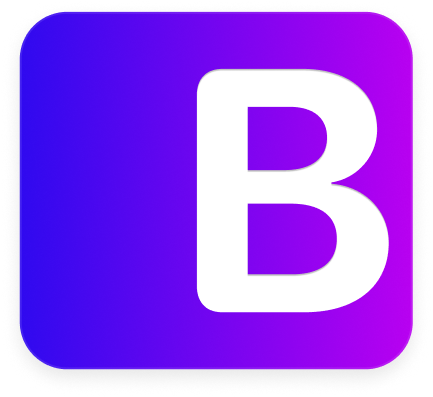
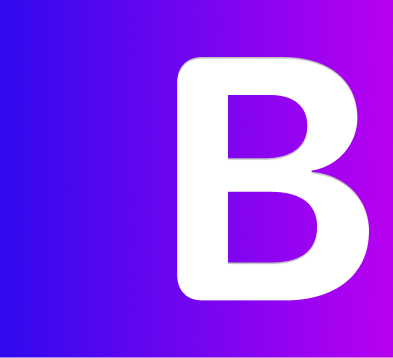
Update product images, refine text in various components for clarity, and enhance styling in Hero and ProductLogo components.

diff --git a/src/components/shared/ProductLogo/ProductLogo.module.scss b/src/components/shared/ProductLogo/ProductLogo.module.scss
@@ -1,91 +1,16 @@
 @import "@/theme/styles.scss";
 
 .productLogo {
-  align-items: center;
   border: 0.658px solid $white-10;
   border-radius: $radius-medium;
   box-shadow: 0px 2.633px 6.583px 0px rgba(0, 0, 0, 0.1);
-  display: flex;
   flex-shrink: 0;
   height: 119px;
-  justify-content: center;
   overflow: hidden;
   position: relative;
   width: 131px;
 }
 
-// Re:verb specific styles
-.reverb {
-  &::before {
-    background: rgba(0, 0, 0, 0.33);
-    border-radius: $radius-medium;
-    content: "";
-    inset: 0;
-    position: absolute;
-  }
-
-  &::after {
-    background-image: 
-      linear-gradient(87.53deg, rgb(106, 78, 77) 17.27%, rgb(66, 81, 82) 49.07%, rgb(67, 101, 85) 91.46%),
-      linear-gradient(-19.17deg, rgb(77, 80, 63) 12.04%, rgb(91, 84, 105) 42.14%, rgb(90, 111, 88) 81.28%),
-      linear-gradient(107.56deg, rgb(74, 115, 85) 0.83%, rgb(49, 48, 74) 24.95%, rgb(107, 106, 82) 68.2%);
-    border-radius: $radius-medium;
-    content: "";
-    inset: 0;
-    mix-blend-mode: overlay;
-    position: absolute;
-  }
-}
-
-.reverbContent {
-  position: relative;
-  z-index: 1;
-}
-
-.reverbText {
-  color: $white;
-  font-family: $font-family-base;
-  font-size: 18px;
-  font-weight: 700;
-}
-
-// Sous Chef specific styles
-.souschef {
-  background: linear-gradient(180deg, #343434 0%, #1f1f1f 100%);
-}
-
-.souschefContent {
-  align-items: center;
-  display: flex;
-  flex-direction: column;
-  gap: 12px;
-}
-
-.souschefIcon {
-  font-size: 32px;
-}
-
-.souschefText {
-  color: #ff6b6b;
-  font-family: $font-family-base;
-  font-size: 14px;
-  font-weight: 700;
-}
-
-// Bandwagon specific styles
-.bandwagon {
-  background: linear-gradient(90deg, #2f09ef 0%, #b800f0 100%);
-  justify-content: flex-end;
-  padding-right: 8px;
-}
-
-.bandwagonContent {
-  display: flex;
-}
-
-.bandwagonText {
-  color: $white;
-  font-family: $font-family-base;
-  font-size: 64px;
-  font-weight: 700;
+.image {
+  object-fit: cover;
 }

diff --git a/src/components/ProductRoundup/ProductRoundup.tsx b/src/components/ProductRoundup/ProductRoundup.tsx
@@ -11,11 +11,8 @@ export default function ProductRoundup() {
       <Column side="left" cells="single">
         <div className={styles.intro}>
           <h2 className={styles.headline}>
-            We have opinions. So do our products.
+            Our products have opinions.
           </h2>
-          <p className={styles.subheadline}>
-            TKTKTK gotta write some stuff there
-          </p>
         </div>
       </Column>
       <Column side="right" cells="single">
@@ -25,19 +22,21 @@ export default function ProductRoundup() {
               logo={<ProductLogo product="reverb" />}
               description="Smart summaries of podcasts, instantly delivered to your inbox"
               buttonText="Free to use"
-              buttonHref="#"
+              buttonHref="https://reverb.email"
             />
           </ProductPack>
           <ProductPack label="Coming soon">
             <ProductPromo
               logo={<ProductLogo product="souschef" />}
-              description="TKTK"
-              buttonText="Free to use"
+              description="Turn an entire dinner party into a single, easy-to-follow recipe"
+              buttonText="Private beta"
+              buttonHref="https://souschef.cool"
             />
             <ProductPromo
               logo={<ProductLogo product="bandwagon" />}
-              description="TKTK"
-              buttonText="Free to use"
+              description="Level up your group chats with AI."
+              buttonText="Private beta"
+              buttonHref="https://bandwagon.chat"
             />
           </ProductPack>
         </div>

diff --git a/src/components/CallToAction/CallToAction.tsx b/src/components/CallToAction/CallToAction.tsx
@@ -8,10 +8,10 @@ function HireUsCTA() {
     <div className={styles.hireUsCta}>
       <div className={styles.hireUsContent}>
         <h3 className={styles.hireUsHeadline}>
-          We&apos;re frankly desperate to work with you.
+          We’re excited to work with you!
         </h3>
         <p className={styles.hireUsBody}>
-          TKTKTK gotta write some stuff there
+          Need to start starting? We can help you move from blank whiteboard to 1.0 in 12 weeks.
         </p>
       </div>
       <Button variant="reverse" className={styles.hireUsButton}>
@@ -36,10 +36,10 @@ function PodcastPromo() {
         </video>
       </div>
       <p className={styles.podcastText}>
-        We co-host a podcast called Product Fridays. It&apos;s a cool and you should watch and/or listen.
+        We co-host <strong>Product Fridays,</strong> a podcast about emerging tech, creativity, and the art of building.
       </p>
       <Button variant="big" className={styles.subscribeButton}>
-        Subscribe
+        Subscribe now
       </Button>
     </div>
   );
@@ -49,7 +49,7 @@ function NewsletterSignUp() {
   return (
     <div className={styles.newsletterSignUp}>
       <p className={styles.newsletterText}>
-        We also send updates on product launches, new projects and collaborations, and occasional sneak peaks.
+        We also send updates on product launches, new projects and collaborations, and occasional sneak peeks.
       </p>
       <div className={styles.signUpForm}>
         <div className={styles.signUpInput}>

diff --git a/src/components/shared/ProductLogo/ProductLogo.tsx b/src/components/shared/ProductLogo/ProductLogo.tsx
@@ -1,32 +1,25 @@
 import styles from "./ProductLogo.module.scss";
-import clsx from "clsx";
+import Image from "next/image";
 
 export type ProductLogoProps = {
   product: "reverb" | "souschef" | "bandwagon";
 };
 
+const productImages: Record<ProductLogoProps["product"], string> = {
+  reverb: "/products/reverb.png",
+  souschef: "/products/sous-chef.png",
+  bandwagon: "/products/bandwagon.png",
+};
+
 export default function ProductLogo({ product }: ProductLogoProps) {
   return (
-    <div className={clsx(
-      styles.productLogo,
-      styles[product]
-    )}>
-      {product === "reverb" && (
-        <div className={styles.reverbContent}>
-          <span className={styles.reverbText}>Re:verb</span>
-        </div>
-      )}
-      {product === "souschef" && (
-        <div className={styles.souschefContent}>
-          <div className={styles.souschefIcon}>🍲</div>
-          <span className={styles.souschefText}>Sous Chef</span>
-        </div>
-      )}
-      {product === "bandwagon" && (
-        <div className={styles.bandwagonContent}>
-          <span className={styles.bandwagonText}>B</span>
-        </div>
-      )}
+    <div className={styles.productLogo}>
+      <Image
+        src={productImages[product]}
+        alt={product}
+        fill
+        className={styles.image}
+      />
     </div>
   );
 }

diff --git a/src/components/Hero/Hero.tsx b/src/components/Hero/Hero.tsx
@@ -2,16 +2,27 @@ import styles from "./Hero.module.scss";
 import Section from "../shared/Section/Section";
 import Row from "../shared/Row/Row";
 import Button from "../shared/Button/Button";
+import Image from "next/image";
 
 export default function Hero() {
   return (
     <Section equalRows fullHeight keepDividerOnMobile>
       <Row position="top" cells="single">
-        <h1 className={styles.heroTitle}>
-          Hi, we’re
-          <br />
-          The Andrews.
-        </h1>
+        <div className={styles.topRow}>
+          <h1 className={styles.heroTitle}>
+            Hi, we&apos;re
+            <br />
+            The Andrews.
+          </h1>
+          <div className={styles.faces}>
+            <Image
+              src="/portraits/faces.svg"
+              alt="Phelps and McGill faces"
+              width={272}
+              height={253}
+            />
+          </div>
+        </div>
       </Row>
       <Row position="bottom" cells="split">
         <div className={styles.cellContent}>

diff --git a/src/components/Hero/Hero.module.scss b/src/components/Hero/Hero.module.scss
@@ -1,13 +1,50 @@
 @import "@/theme/styles.scss";
 
+.topRow {
+  align-items: flex-start;
+  display: flex;
+  flex-direction: column;
+  height: 100%;
+  justify-content: flex-end;
+  padding: 64px 0 0 0;
+  width: 100%;
+
+  @include tablet-up {
+    align-items: flex-end;
+    flex-direction: row;
+    gap: 80px;
+    justify-content: flex-start;
+    padding: 48px 0;
+  }
+}
+
 .heroTitle {
   @include text-h1;
   @include text-gradient($gradient-text-peach-blue);
-  padding: 64px 0 0 0;
   margin: 0;
+}
+
+.faces {
+  flex-shrink: 0;
+  height: 143px;
+  order: -1;
+  width: 154px;
 
   @include tablet-up {
-    padding: 48px 0;
+    height: 163px;
+    order: 0;
+    width: 175px;
+  }
+
+  @include desktop-up {
+    height: 253px;
+    width: 272px;
+  }
+
+  img {
+    height: 100%;
+    object-fit: contain;
+    width: 100%;
   }
 }
 

diff --git a/src/components/Clients/Clients.tsx b/src/components/Clients/Clients.tsx
@@ -66,7 +66,7 @@ export default function Clients() {
       <div className={styles.content}>
         <div className={styles.topRow}>
           <h2 className={styles.headline}>
-            Gaze upon the majesty of the brands we've graced with our presence
+            We’ve worked with some of the most iconic brands.
           </h2>
         </div>
         <div className={styles.divider} />

diff --git a/src/components/AboutUs/AboutUs.tsx b/src/components/AboutUs/AboutUs.tsx
@@ -8,11 +8,7 @@ export default function AboutUs() {
     <Section>
       <Column side="left" cells="single">
         <h2 className={styles.headline}>
-          Sirs?
-          <br />
-          Excuse me.
-          <br />
-          Who are you?
+          Who are you guys again?
         </h2>
       </Column>
       <Column side="right" cells="stacked">

diff --git a/src/components/shared/ProductPromo/ProductPromo.module.scss b/src/components/shared/ProductPromo/ProductPromo.module.scss
@@ -7,7 +7,7 @@
 
 .productPromo {
   background-image: linear-gradient(104.45deg, rgba(113, 118, 111, 0.2) 0%, rgba(66, 66, 66, 0.2) 99.291%);
-  border: 1px solid #6e6e6e;
+  border: 1px solid #3E3E3E;
   border-radius: $radius-large;
   display: flex;
   gap: 24px;
